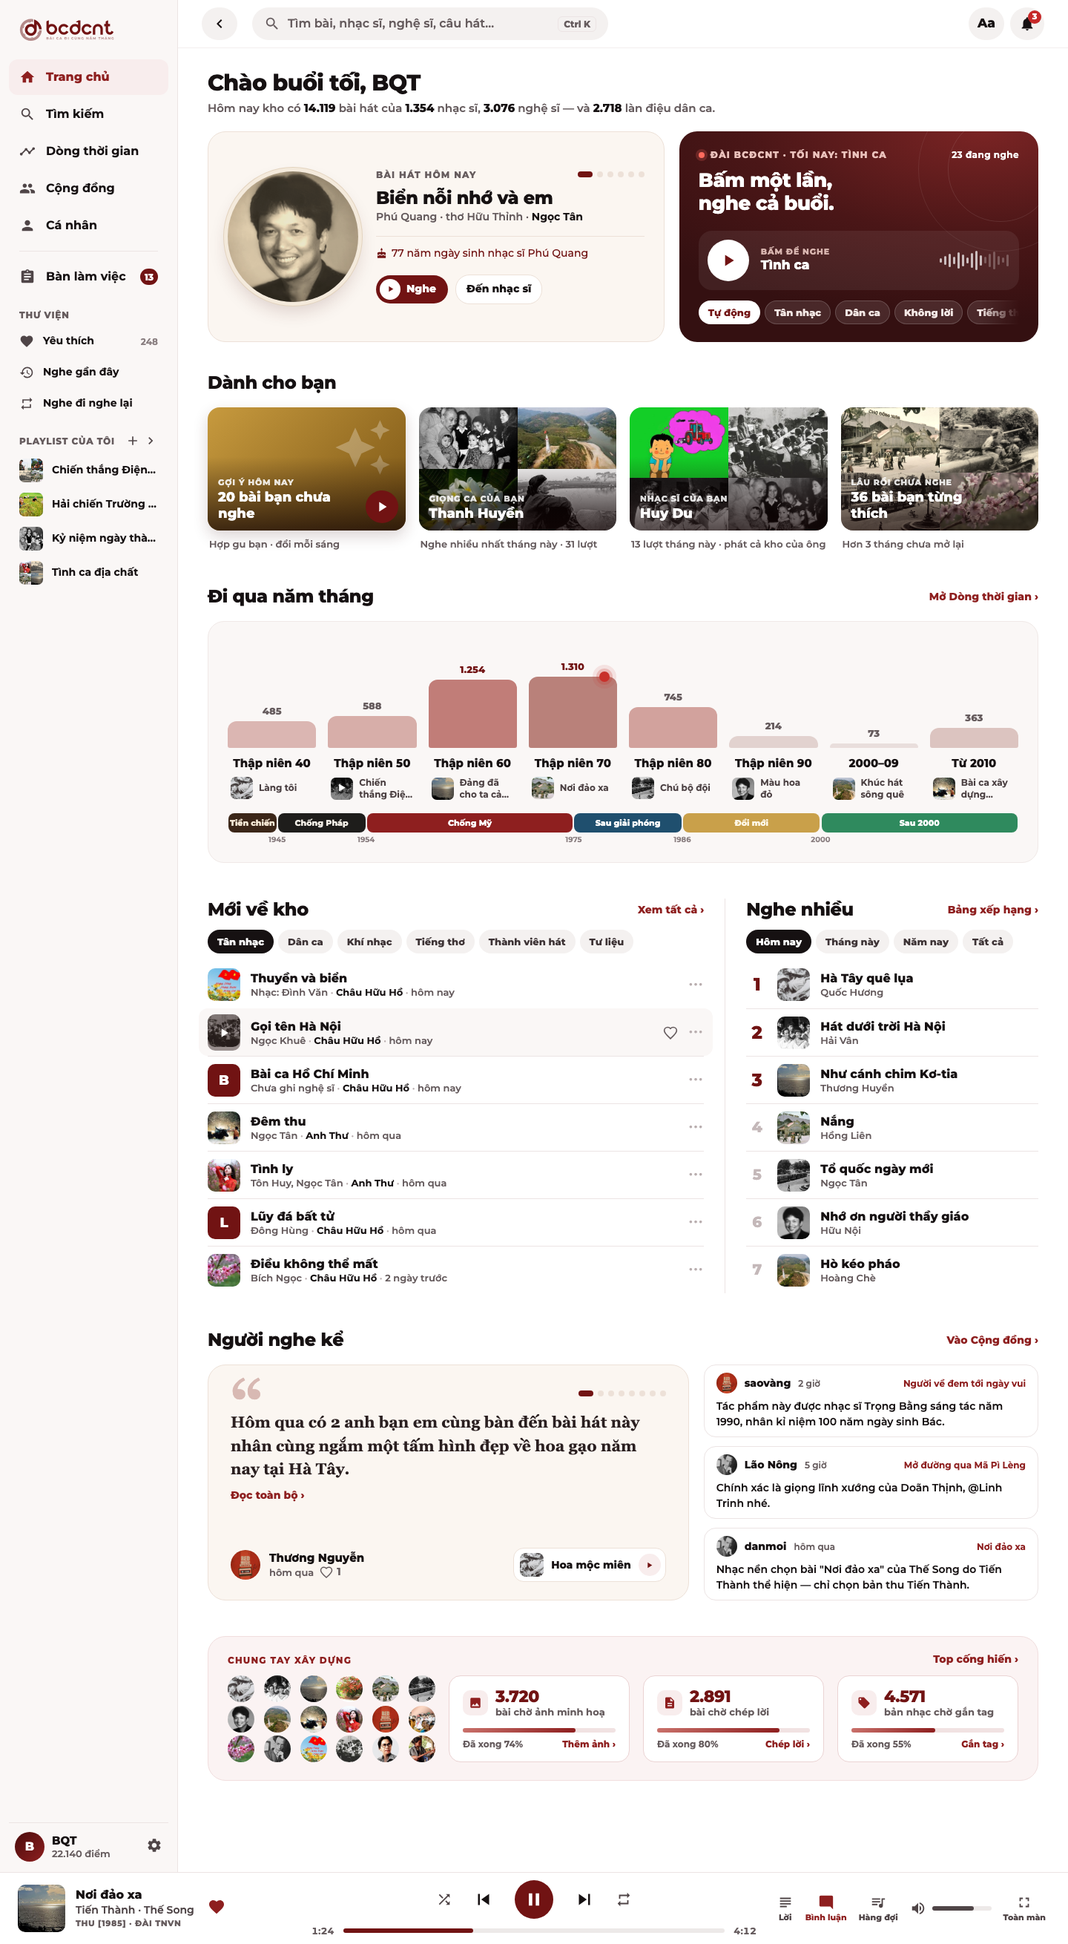
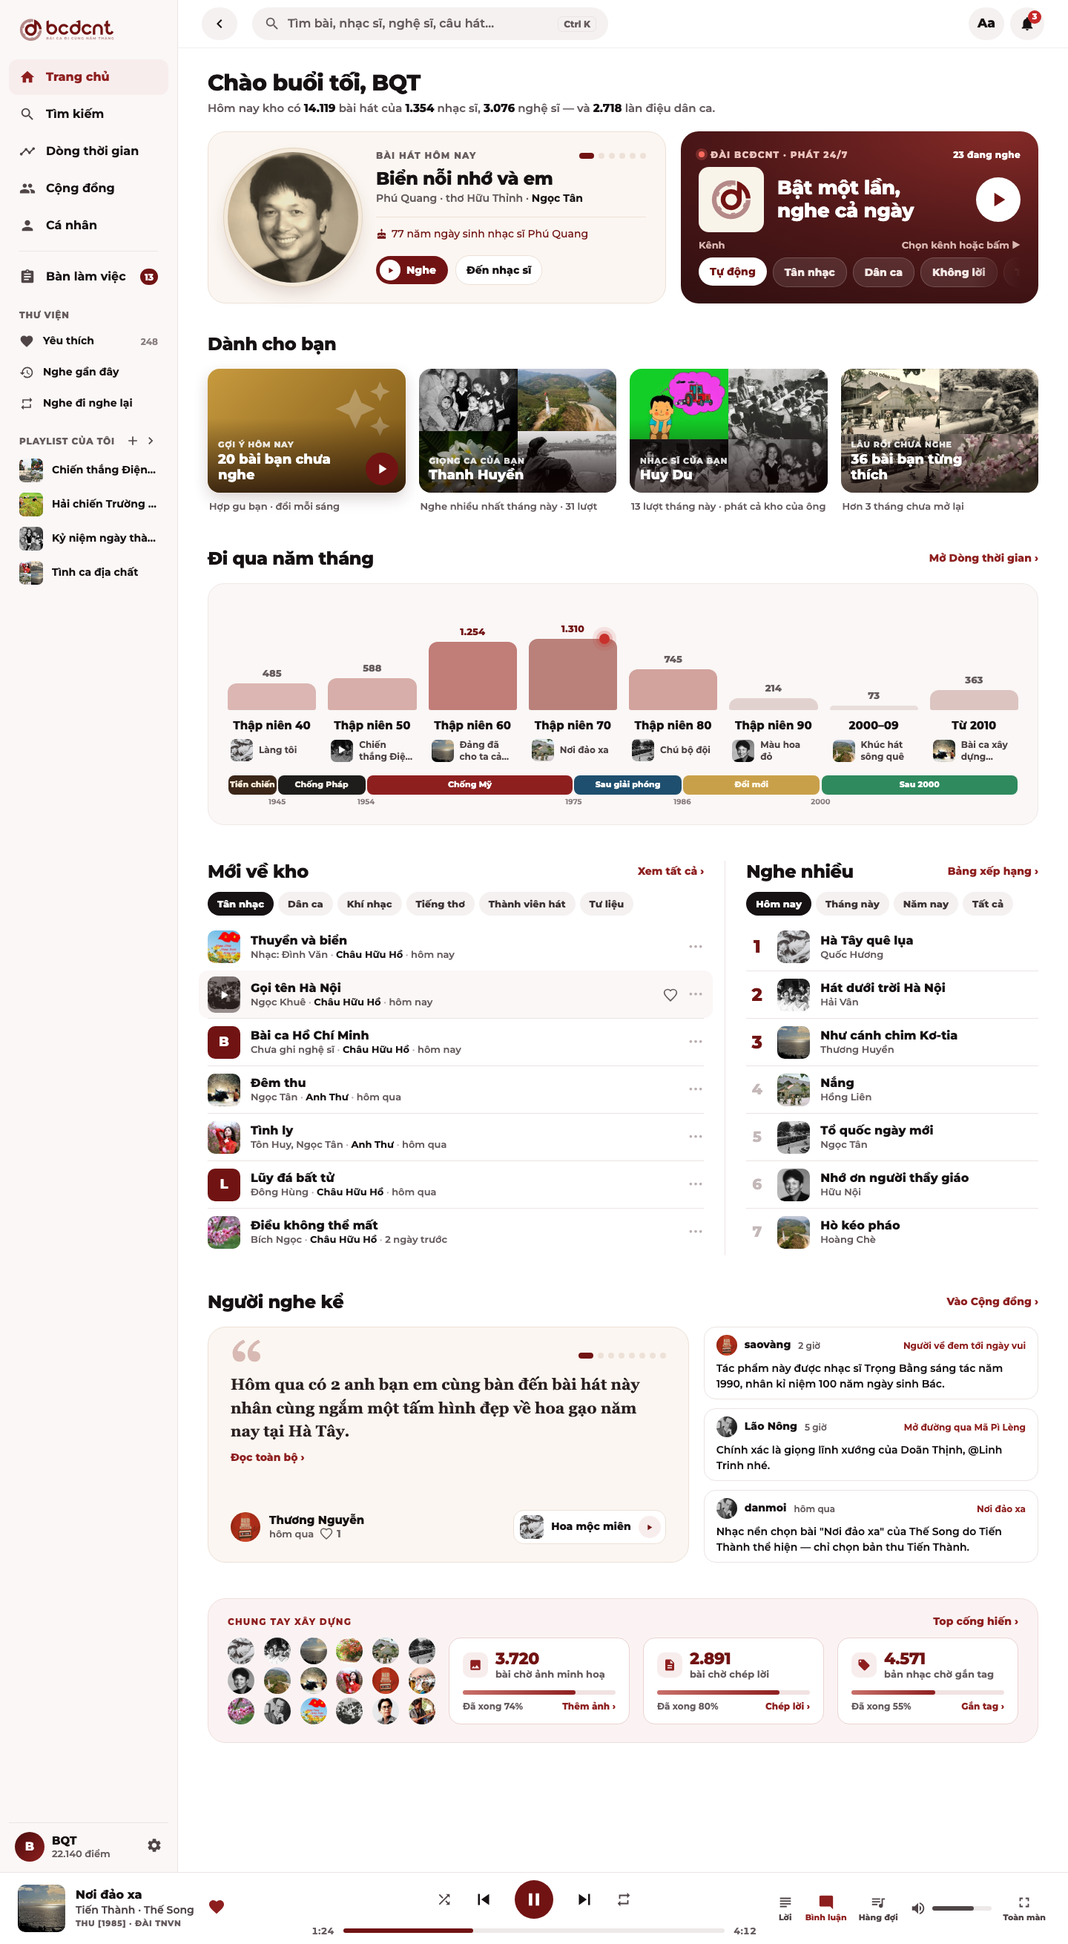
design(canvas): thẻ Đài desktop đồng bộ mobile

diff --git a/design/canvas/project/Desktop_TrangChu.dc.html b/design/canvas/project/Desktop_TrangChu.dc.html
@@ -11,7 +11,7 @@
 <link href="https://fonts.googleapis.com/css2?family=Montserrat:wght@500;600;700;800&amp;display=swap" rel="stylesheet">
 <style>body{margin:0}a{color:#8E1F1F;text-decoration:none}</style>
 </helmet>
-<!-- TRANG CHỦ DESKTOP (đã chốt 11/11/2026, từ đề xuất 7d): 6 khối, nghe là chính, hoài cổ chỉ điểm xuyết. (1) Lời chào + 1 câu về kho · (2) Bài hát hôm nay (cuốn lịch chỉ dùng khi có sự kiện) = slideshow ~6 bài có chấm, tự chuyển 10 giây: bài của nhạc sĩ/nghệ sĩ có kỷ niệm trong 7 ngày tới (ảnh chân dung TRÒN, dòng lý do dưới tên bài sau đường kẻ: "77 năm ngày sinh nhạc sĩ X" (không ghi ngày tháng), nút "Đến nhạc sĩ"/"Đến nghệ sĩ" mở thẳng trang người đó) → 1 bài tròn 40–80 năm ra đời (ảnh bài vuông, "Tròn N năm ra đời bài hát (năm)", nút "Đến bài hát") → bài nghe nhiều ngẫu nhiên (ảnh bài vuông, không dòng lý do, nút "Đến bài hát"); nhãn không ghi ngày, không có hàng Sắp tới (ưu tiên: playlist sự kiện đang trong event_start–event_end → bài của nhạc sĩ có kỷ niệm trong tuần → xoay vòng; 1–2 câu chỉ từ dữ kiện trong kho) | Đài BCĐCNT (kênh Tự động · Tân nhạc · Dân ca · Không lời · Tiếng thơ (một dòng, kéo ngang khi nhiều kênh); Tự động: sáng tươi vui · trưa dân ca · tối trữ tình · đêm khúc ru; bài mở đầu tránh hành khúc; chưa phát thì không hiện tên bài — bí ẩn; đang phát mà đổi kênh thì phát kênh mới ngay; vòng sóng lan toả ở góc khi đang phát; số người đang nghe ghi gọn ở cuối dòng tiêu đề Đài ("23 đang nghe", không gương mặt) — gần realtime qua radioHeartbeat 30s/75s, chỉ tính người nghe Đài, hiện từ 2 người) · (3) Dành cho bạn — 4 thẻ PHÁT NGAY: Gợi ý hôm nay (recommendedSongs) · Giọng ca của bạn + Nhạc sĩ của bạn (userTopListens tháng) · Lâu rồi chưa nghe (đã thích, >3 tháng chưa nghe); khách: lời mời đăng nhập. Không có thẻ Nghe tiếp: mở app thì thanh phát khôi phục bài + vị trí lần trước · (4) Đi qua năm tháng (songYearCounts theo thập niên, bấm cột = phát songsByYear; dưới cột: ảnh + tên bài đại diện 2 dòng, rê ảnh hiện ▶; dải 6 giai đoạn màu đặc (Sau 2000 xanh lá), bấm = trang giai đoạn; chấm đỏ nhịp = thập niên bài đang phát; rê cột: cột cao lên + đường số bài từng năm, ô nổi top 3 + Phát thập niên / Xem tất cả — chốt 13/11) · (5) Mới về kho (chip thể loại, mặc định Tân nhạc, không nhãn) | Nghe nhiều (chip Hôm nay · Tháng này · Năm nay · Tất cả; mỗi dòng có ảnh bài như mobile) · (6) Người nghe kể: ô lớn trái = slideshow 8 cảm nhận hay (is_featured, BQT đánh dấu), chấm chuyển bài, tự sang bài sau ~9 giây, rê chuột thì dừng, 3 ô nhỏ phải = 3 bình luận mới nhất của 3 người khác nhau (không lọc gì thêm); tim viền như Cộng đồng · (7) Chung tay xây dựng (số thật toàn kho + ô trái giữ cỡ cũ (280px), lấp đầy bằng lưới avatar ẢNH THẬT của top thành viên đóng góp nhiều nhất (xếp theo thứ hạng, rê chuột hiện tên + số đóng góp; lưới cao đúng bằng 3 ô số liệu; link "Top cống hiến ›" → /bang-xep-hang/cong-hien), riêng rẽ như contributors GitHub, không chồng nhau, không câu khẩu hiệu). Menu trái: nhóm THƯ VIỆN (Yêu thích · Nghe gần đây · Nghe đi nghe lại) = nơi đến; Đã tải về nằm trong trang Thư viện. Không khẩu hiệu/cổ động. -->
+<!-- TRANG CHỦ DESKTOP (đã chốt 11/11/2026, từ đề xuất 7d): 6 khối, nghe là chính, hoài cổ chỉ điểm xuyết. (1) Lời chào + 1 câu về kho · (2) Bài hát hôm nay (cuốn lịch chỉ dùng khi có sự kiện) = slideshow ~6 bài có chấm, tự chuyển 10 giây: bài của nhạc sĩ/nghệ sĩ có kỷ niệm trong 7 ngày tới (ảnh chân dung TRÒN, dòng lý do dưới tên bài sau đường kẻ: "77 năm ngày sinh nhạc sĩ X" (không ghi ngày tháng), nút "Đến nhạc sĩ"/"Đến nghệ sĩ" mở thẳng trang người đó) → 1 bài tròn 40–80 năm ra đời (ảnh bài vuông, "Tròn N năm ra đời bài hát (năm)", nút "Đến bài hát") → bài nghe nhiều ngẫu nhiên (ảnh bài vuông, không dòng lý do, nút "Đến bài hát"); nhãn không ghi ngày, không có hàng Sắp tới (ưu tiên: playlist sự kiện đang trong event_start–event_end → bài của nhạc sĩ có kỷ niệm trong tuần → xoay vòng; 1–2 câu chỉ từ dữ kiện trong kho) | Đài BCĐCNT (đồng bộ thẻ mobile 13/11: chưa phát = logo app + "Bật một lần, nghe cả ngày" + nút ▶ trắng, đang phát = ảnh bài + tên + nghệ sĩ, dòng Kênh · "Tiếp theo: …" chạy ngang; kênh Tự động · Tân nhạc · Dân ca · Không lời · Tiếng thơ (một dòng, kéo ngang khi nhiều kênh); Tự động: sáng tươi vui · trưa dân ca · tối trữ tình · đêm khúc ru; bài mở đầu tránh hành khúc; chưa phát thì không hiện tên bài — bí ẩn; đang phát mà đổi kênh thì phát kênh mới ngay; vòng sóng lan toả ở góc khi đang phát; số người đang nghe ghi gọn ở cuối dòng tiêu đề Đài ("23 đang nghe", không gương mặt) — gần realtime qua radioHeartbeat 30s/75s, chỉ tính người nghe Đài, hiện từ 2 người) · (3) Dành cho bạn — 4 thẻ PHÁT NGAY: Gợi ý hôm nay (recommendedSongs) · Giọng ca của bạn + Nhạc sĩ của bạn (userTopListens tháng) · Lâu rồi chưa nghe (đã thích, >3 tháng chưa nghe); khách: lời mời đăng nhập. Không có thẻ Nghe tiếp: mở app thì thanh phát khôi phục bài + vị trí lần trước · (4) Đi qua năm tháng (songYearCounts theo thập niên, bấm cột = phát songsByYear; dưới cột: ảnh + tên bài đại diện 2 dòng, rê ảnh hiện ▶; dải 6 giai đoạn màu đặc (Sau 2000 xanh lá), bấm = trang giai đoạn; chấm đỏ nhịp = thập niên bài đang phát; rê cột: cột cao lên + đường số bài từng năm, ô nổi top 3 + Phát thập niên / Xem tất cả — chốt 13/11) · (5) Mới về kho (chip thể loại, mặc định Tân nhạc, không nhãn) | Nghe nhiều (chip Hôm nay · Tháng này · Năm nay · Tất cả; mỗi dòng có ảnh bài như mobile) · (6) Người nghe kể: ô lớn trái = slideshow 8 cảm nhận hay (is_featured, BQT đánh dấu), chấm chuyển bài, tự sang bài sau ~9 giây, rê chuột thì dừng, 3 ô nhỏ phải = 3 bình luận mới nhất của 3 người khác nhau (không lọc gì thêm); tim viền như Cộng đồng · (7) Chung tay xây dựng (số thật toàn kho + ô trái giữ cỡ cũ (280px), lấp đầy bằng lưới avatar ẢNH THẬT của top thành viên đóng góp nhiều nhất (xếp theo thứ hạng, rê chuột hiện tên + số đóng góp; lưới cao đúng bằng 3 ô số liệu; link "Top cống hiến ›" → /bang-xep-hang/cong-hien), riêng rẽ như contributors GitHub, không chồng nhau, không câu khẩu hiệu). Menu trái: nhóm THƯ VIỆN (Yêu thích · Nghe gần đây · Nghe đi nghe lại) = nơi đến; Đã tải về nằm trong trang Thư viện. Không khẩu hiệu/cổ động. -->
 <!-- Biến thể: sáng -->
 <div style="width: 1440px; height: 2620px; background: #FFFFFF; font-family: Montserrat, sans-serif; line-height: 1.25; color: #161112; display: flex; flex-direction: column; overflow: hidden; position: relative">
 <svg width="0" height="0" aria-hidden="true" style="position: absolute"><filter id="brandTint" color-interpolation-filters="sRGB"><feColorMatrix type="matrix" values="0.1667 0.5609 0.0566 0 0.1804  0.1868 0.6283 0.0634 0 0.0314  0.1767 0.5946 0.0600 0 0.0392  0 0 0 1 0"></feColorMatrix></filter></svg>
@@ -39,15 +39,13 @@
 <div style="display:flex;align-items:center;gap:6px;font-size:14px;font-weight:500;line-height:1.5;color:#711313;margin-top:16px;padding-top:12px;border-top:1px solid #EDE1D8"><svg width="15" height="15" viewBox="0 0 24 24" fill="currentColor" style="flex-shrink:0"><path d="M12 6c1.11 0 2-.9 2-2 0-.38-.1-.73-.29-1.03L12 0l-1.71 2.97c-.19.3-.29.65-.29 1.03 0 1.1.9 2 2 2zm4.6 9.99l-1.07-1.07-1.08 1.07c-1.3 1.3-3.58 1.31-4.89 0l-1.07-1.07-1.09 1.07C6.75 16.64 5.88 17 4.96 17c-.73 0-1.4-.23-1.96-.61V21c0 .55.45 1 1 1h16c.55 0 1-.45 1-1v-4.61c-.56.38-1.23.61-1.96.61-.92 0-1.79-.36-2.44-1.01zM18 9h-5V7h-2v2H6c-1.66 0-3 1.34-3 3v1.54c0 1.08.88 1.96 1.96 1.96.52 0 1.02-.2 1.38-.57l2.14-2.13 2.13 2.13c.74.74 2.03.74 2.77 0l2.14-2.13 2.13 2.13c.37.37.86.57 1.38.57 1.08 0 1.96-.88 1.96-1.96V12C21 10.34 19.66 9 18 9z"/></svg>77 năm ngày sinh nhạc sĩ Phú Quang</div>
 <div style="display:flex;align-items:center;gap:10px;margin-top:18px"><span style="display:flex;align-items:center;gap:8px;height:38px;padding:0 16px 0 5px;border-radius:19px;background:#711313;color:#fff;font-size:14px;font-weight:800"><span style="width:28px;height:28px;border-radius:14px;background:#fff;display:flex;align-items:center;justify-content:center;flex-shrink:0"><svg width="13" height="13" viewBox="0 0 24 24" fill="#711313"><path d="M8 5v14l11-7z"/></svg></span>Nghe</span><span style="height:38px;padding:0 14px;border-radius:19px;border:1px solid #EDE1D8;background:#fff;display:flex;align-items:center;font-size:14px;font-weight:800">Đến nhạc sĩ</span></div>
 
-</div></div><div style="flex:1;min-width:0;background:radial-gradient(120% 90% at 85% 0%,#7A2424 0%,#4A1617 55%,#341011 100%);color:#fff;border-radius:24px;padding:24px 26px;display:flex;flex-direction:column;position:relative;overflow:hidden">
-<div style="position:absolute;right:-60px;top:-60px;width:220px;height:220px;border-radius:110px;border:1px solid rgba(255,255,255,.08)"></div><div style="position:absolute;right:-20px;top:-20px;width:140px;height:140px;border-radius:70px;border:1px solid rgba(255,255,255,.10)"></div>
-<div style="display:flex;align-items:center;gap:8px;font-size:12px;font-weight:800;letter-spacing:1.2px;color:#EBC2BC"><span style="width:8px;height:8px;border-radius:4px;background:#FF6B5E;box-shadow:0 0 0 4px rgba(255,107,94,.22)"></span>ĐÀI BCĐCNT · TỐI NAY: TÌNH CA<span style="margin-left:auto;letter-spacing:.4px;color:#fff;font-weight:700">23 đang nghe</span></div>
-<div style="font-size:26px;font-weight:800;margin-top:12px;letter-spacing:-0.4px;line-height:1.2">Bấm một lần,<br>nghe cả buổi.</div>
-<div style="display:flex;align-items:center;gap:16px;margin-top:20px;padding:12px 14px 12px 12px;border-radius:18px;background:rgba(255,255,255,.07)"><span style="width:56px;height:56px;border-radius:28px;background:#fff;display:flex;align-items:center;justify-content:center;flex-shrink:0"><svg width="26" height="26" viewBox="0 0 24 24" fill="#711313"><path d="M8 5v14l11-7z"/></svg></span>
-<div style="flex:1;min-width:0"><div style="font-size:11px;font-weight:800;letter-spacing:.8px;color:#D9B6B0">BẤM ĐỂ NGHE</div><div style="font-size:17px;font-weight:800;margin-top:1px">Tình ca</div></div>
-<div style="display:flex;align-items:center;gap:3px;height:28px"><span style="width:3px;border-radius:2px;height:6px;background:rgba(255,255,255,0.7)"></span><span style="width:3px;border-radius:2px;height:12px;background:rgba(255,255,255,0.7)"></span><span style="width:3px;border-radius:2px;height:18px;background:rgba(255,255,255,0.7)"></span><span style="width:3px;border-radius:2px;height:10px;background:rgba(255,255,255,0.7)"></span><span style="width:3px;border-radius:2px;height:22px;background:rgba(255,255,255,0.7)"></span><span style="width:3px;border-radius:2px;height:16px;background:rgba(255,255,255,0.7)"></span><span style="width:3px;border-radius:2px;height:8px;background:rgba(255,255,255,0.7)"></span><span style="width:3px;border-radius:2px;height:20px;background:rgba(255,255,255,0.7)"></span><span style="width:3px;border-radius:2px;height:26px;background:rgba(255,255,255,0.7)"></span><span style="width:3px;border-radius:2px;height:14px;background:rgba(255,255,255,0.7)"></span><span style="width:3px;border-radius:2px;height:9px;background:rgba(255,255,255,0.25)"></span><span style="width:3px;border-radius:2px;height:18px;background:rgba(255,255,255,0.25)"></span><span style="width:3px;border-radius:2px;height:24px;background:rgba(255,255,255,0.25)"></span><span style="width:3px;border-radius:2px;height:12px;background:rgba(255,255,255,0.25)"></span><span style="width:3px;border-radius:2px;height:7px;background:rgba(255,255,255,0.25)"></span><span style="width:3px;border-radius:2px;height:16px;background:rgba(255,255,255,0.25)"></span></div></div>
-<div style="flex:1;min-height:14px"></div>
-<div style="display:flex;gap:6px;overflow:hidden;-webkit-mask-image:linear-gradient(90deg,#000 88%,transparent);mask-image:linear-gradient(90deg,#000 88%,transparent)"><span style="height:32px;padding:0 13px;border-radius:16px;display:flex;align-items:center;font-size:13px;font-weight:800;white-space:nowrap;background:#fff;color:#711313">Tự động</span><span style="height:32px;padding:0 13px;border-radius:16px;display:flex;align-items:center;font-size:13px;font-weight:800;white-space:nowrap;background:rgba(255,255,255,.10);color:#F3E7E4;box-shadow:inset 0 0 0 1px rgba(255,255,255,.18)">Tân nhạc</span><span style="height:32px;padding:0 13px;border-radius:16px;display:flex;align-items:center;font-size:13px;font-weight:800;white-space:nowrap;background:rgba(255,255,255,.10);color:#F3E7E4;box-shadow:inset 0 0 0 1px rgba(255,255,255,.18)">Dân ca</span><span style="height:32px;padding:0 13px;border-radius:16px;display:flex;align-items:center;font-size:13px;font-weight:800;white-space:nowrap;background:rgba(255,255,255,.10);color:#F3E7E4;box-shadow:inset 0 0 0 1px rgba(255,255,255,.18)">Không lời</span><span style="height:32px;padding:0 13px;border-radius:16px;display:flex;align-items:center;font-size:13px;font-weight:800;white-space:nowrap;background:rgba(255,255,255,.10);color:#F3E7E4;box-shadow:inset 0 0 0 1px rgba(255,255,255,.18)">Tiếng thơ</span></div></div></div>
+</div></div><div style="flex:1;min-width:0;background:radial-gradient(140% 120% at 90% 0%,#842A27,#4E1718 55%,#331011);color:#fff;border-radius:24px;padding:22px 24px;display:flex;flex-direction:column;justify-content:space-between;overflow:hidden">
+<div style="display:flex;align-items:center;gap:8px;height:18px;font-size:12px;font-weight:800;letter-spacing:1.2px;color:#EBC2BC"><span style="width:8px;height:8px;border-radius:4px;background:#FF6B5E;box-shadow:0 0 0 4px rgba(255,107,94,.25);flex-shrink:0"></span><span>ĐÀI BCĐCNT · PHÁT 24/7</span><span style="margin-left:auto;color:#fff;letter-spacing:.3px;white-space:nowrap">23 đang nghe</span></div>
+<div style="display:flex;gap:18px;align-items:center;height:88px"><span style="width:88px;height:88px;border-radius:14px;background:#F9F4EA;display:flex;align-items:center;justify-content:center;flex-shrink:0"><svg width="66" height="66" xmlns="http://www.w3.org/2000/svg" viewBox="0 0 128.39 128.39"><path fill="#b48988" d="M38.55,87.7a36.72,36.72,0,0,1-3.95-5,2.58,2.58,0,0,0-3.4-.84L30,82.54a38.72,38.72,0,0,0,7.5,9.79l1.06-1.13A2.54,2.54,0,0,0,38.55,87.7ZM32.67,44.89l-1.54-1A38.93,38.93,0,0,0,27,53.1c-.23.78-.44,1.56-.61,2.34l1.57.41A2.56,2.56,0,0,0,31,54.14a36.83,36.83,0,0,1,2.52-5.86A2.56,2.56,0,0,0,32.67,44.89ZM74.76,100a2.56,2.56,0,0,0-3-1.74,35.6,35.6,0,0,1-6.17.82,2.55,2.55,0,0,0-2.47,2.46l0,1.32a38.48,38.48,0,0,0,12.08-1.61ZM53.24,27.1l.39,1.32a2.54,2.54,0,0,0,3,1.73,31.1,31.1,0,0,1,5.94-.71A2.57,2.57,0,0,0,65.09,27l.07-1.45A38.31,38.31,0,0,0,53.24,27.1Zm47.07,46a2.55,2.55,0,0,0-3,1.73,34.64,34.64,0,0,1-2.42,5.73A2.55,2.55,0,0,0,95.75,84l1.1.69a38.2,38.2,0,0,0,4.21-9.34c.19-.63.36-1.25.51-1.88Z"></path><path fill="#b48988" d="M13.27,64.19a50.76,50.76,0,0,0,101.51,1.22v-.09H102.6a.28.28,0,0,1,0,.09A38.56,38.56,0,1,1,75.31,27.29V14.69a50.76,50.76,0,0,0-62,49.5Z"></path><path fill="#711313" d="M36.58,64.2a27.46,27.46,0,0,0,54.26,6v0a27.21,27.21,0,0,0,.65-6V37.13a38.36,38.36,0,0,1,11,24.29h12.22a50.78,50.78,0,0,0-23.24-39.9,49.77,49.77,0,0,0-12.27-5.77V41.34A27.2,27.2,0,0,0,64,36.74,27.49,27.49,0,0,0,36.58,64.2Zm12.18,0a15.27,15.27,0,0,1,30.46-1.61,14.08,14.08,0,0,1,.09,1.61,14.35,14.35,0,0,1-.09,1.61A15.27,15.27,0,0,1,48.76,64.2Z"></path></svg></span>
+<div style="flex:1;min-width:0"><div style="font-size:26px;font-weight:800;line-height:1.2;letter-spacing:-0.3px">Bật một lần,<br>nghe cả ngày</div></div>
+<span style="width:60px;height:60px;border-radius:30px;background:#fff;display:flex;align-items:center;justify-content:center;flex-shrink:0"><svg width="32" height="32" viewBox="0 0 24 24" fill="#711313" style="flex-shrink:0"><path d="M8 5v14l11-7z"/></svg></span></div>
+<div><div style="display:flex;align-items:center;justify-content:space-between;height:18px;font-size:13px;font-weight:700;color:#D9B6B0"><span>Kênh</span><span>Chọn kênh hoặc bấm ▶</span></div>
+<div style="margin-top:8px;display:flex;gap:8px;overflow:hidden;-webkit-mask-image:linear-gradient(90deg,#000 85%,transparent);mask-image:linear-gradient(90deg,#000 85%,transparent)"><span style="height:38px;padding:0 15px;border-radius:19px;display:flex;align-items:center;font-size:14px;font-weight:800;white-space:nowrap;background:#fff;color:#711313">Tự động</span><span style="height:38px;padding:0 15px;border-radius:19px;display:flex;align-items:center;font-size:14px;font-weight:800;white-space:nowrap;background:rgba(255,255,255,.1);border:1px solid rgba(255,255,255,.18);color:#F3E7E4">Tân nhạc</span><span style="height:38px;padding:0 15px;border-radius:19px;display:flex;align-items:center;font-size:14px;font-weight:800;white-space:nowrap;background:rgba(255,255,255,.1);border:1px solid rgba(255,255,255,.18);color:#F3E7E4">Dân ca</span><span style="height:38px;padding:0 15px;border-radius:19px;display:flex;align-items:center;font-size:14px;font-weight:800;white-space:nowrap;background:rgba(255,255,255,.1);border:1px solid rgba(255,255,255,.18);color:#F3E7E4">Không lời</span><span style="height:38px;padding:0 15px;border-radius:19px;display:flex;align-items:center;font-size:14px;font-weight:800;white-space:nowrap;background:rgba(255,255,255,.1);border:1px solid rgba(255,255,255,.18);color:#F3E7E4">Tiếng thơ</span></div></div></div></div>
 <div style="margin-top:40px"><div style="margin-bottom:18px"><div style="display:flex;align-items:center;justify-content:space-between;gap:16px"><h2 style="margin:0;font-size:24px;font-weight:800;letter-spacing:-0.4px">Dành cho bạn</h2></div></div><div style="display:grid;grid-template-columns:repeat(4,minmax(0,1fr));gap:18px"><div style="min-width:0;display:flex;flex-direction:column;gap:10px">
 <div style="position:relative;aspect-ratio:16/10;border-radius:16px;overflow:hidden;box-shadow:0 8px 20px rgba(60,20,20,.18)"><span style="position:absolute;inset:0;background:linear-gradient(135deg,#C79A3E,#7A5414)"></span><svg width="80" height="80" viewBox="0 0 24 24" fill="rgba(255,255,255,.28)" style="position:absolute;right:18px;top:14px"><path d="M19 9l1.25-2.75L23 5l-2.75-1.25L19 1l-1.25 2.75L15 5l2.75 1.25L19 9zm-7.5.5L9 4 6.5 9.5 1 12l5.5 2.5L9 20l2.5-5.5L17 12l-5.5-2.5zM19 15l-1.25 2.75L15 19l2.75 1.25L19 23l1.25-2.75L23 19l-2.75-1.25L19 15z"/></svg><span style="position:absolute;inset:0;background:linear-gradient(180deg,rgba(0,0,0,0) 40%,rgba(20,6,6,.72))"></span>
 <span style="position:absolute;left:14px;bottom:12px;right:64px;color:#fff"><span style="display:block;font-size:11px;font-weight:800;letter-spacing:.8px;opacity:.85">GỢI Ý HÔM NAY</span><span style="display:block;font-size:18px;font-weight:800;line-height:1.2;margin-top:2px">20 bài bạn chưa nghe</span></span><span style="position:absolute;right:10px;bottom:10px;"><span style="width:44px;height:44px;border-radius:22px;background:#711313;display:flex;align-items:center;justify-content:center;flex-shrink:0"><svg width="22" height="22" viewBox="0 0 24 24" fill="#fff"><path d="M8 5v14l11-7z"/></svg></span></span></div>
